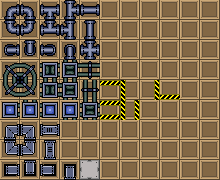
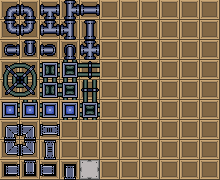
Implement basic ventilations

Changed region(s): [[0.4364, 0.4444, 0.5727, 0.6667], [0.6818, 0.4444, 0.8182, 0.5556], [0.6, 0.5556, 0.6545, 0.6667]]

diff --git a/TriangulatedTopology/Props/Algorithms/VentilationGeneratorAlgorithm.cs b/TriangulatedTopology/Props/Algorithms/VentilationGeneratorAlgorithm.cs
@@ -3,6 +3,7 @@ using GameEngine.Core;
 using GameEngine.Graphics;
 using GameEngine.Helpers;
 using GameEngine.Mathematics;
+using GameEngine.Utils;
 using Graph;
 using OpenTK.Mathematics;
 using System.Drawing;
@@ -13,6 +14,8 @@ namespace TriangulatedTopology.Props.Algorithms
 {
     public class VentilationGeneratorAlgorithm : INetAlgorithm
     {
+        private static Model VentilationJoint = Model.Load("Content/Models/VentilationJoint.fbx");
+
         public static readonly Color VentilationColor = Color.FromArgb(255, 60, 246);
 
         public bool CanProcessRule(Rule rule)
@@ -34,12 +37,41 @@ namespace TriangulatedTopology.Props.Algorithms
         }
 
         public void ProcessNet(Engine engine, Net<LogicalNode> net)
-        {            
-            float side = 0.5f;
+        {
+            float epsilon = 0.01f;
+            float side = 0.55f;
             float extrusionFactor = 0.6f;
 
             var nodes = net.ToList();
-            var points = GetPoints(nodes, side, extrusionFactor);
+            var (points, joints) = GetPoints(nodes, side, extrusionFactor);
+            InstantiateJoints(engine, points, joints);
+
+            foreach(var joint in joints)
+            {
+                var position = joint.Position;
+                var direction = joint.Forward;
+
+                var forwardRotation = Quaternion.Identity;
+                var backwardRotation = Quaternion.Identity;
+
+                forwardRotation = Mathematics.FromToRotation(Vector3.UnitY, direction);
+                forwardRotation *= Mathematics.FromToRotation(Vector3.UnitX, joint.Up);
+
+                if (Mathematics.ApproximatelyEqualEpsilon(MathF.Abs(Vector3.Dot(direction, Vector3.UnitY)), 1.0f, epsilon))
+                {
+                    var axis = Vector3.Transform(Vector3.UnitX, forwardRotation);
+                    backwardRotation = Quaternion.FromAxisAngle(axis, MathHelper.Pi) * forwardRotation;              
+                }
+                else
+                {
+                    backwardRotation = Mathematics.FromToRotation(Vector3.UnitY, -direction);
+                    backwardRotation *= Mathematics.FromToRotation(Vector3.UnitX, joint.Up);                    
+                }
+
+                InstantiateVentilationJoint(engine, position, forwardRotation);
+                InstantiateVentilationJoint(engine, position, backwardRotation);
+            }
+
             var model = MeshGenerator.GenerateTubeFromSpline(points, side);
 
             var go = engine.CreateGameObject();
@@ -47,9 +79,10 @@ namespace TriangulatedTopology.Props.Algorithms
             render.Model = model;
         }
 
-        private static List<SplineVertex> GetPoints(List<LogicalNode> nodes, float radius, float extrusionFactor)
+        private static (List<SplineVertex> Points, List<SplineVertex> Joints) GetPoints(List<LogicalNode> nodes, float radius, float extrusionFactor)
         {
             var points = new List<SplineVertex>();
+            var joints = new List<SplineVertex>();
             var segments = new List<List<SplineVertex>>();
             int resolution = 3;
 
@@ -60,6 +93,7 @@ namespace TriangulatedTopology.Props.Algorithms
 
                 var jointPoints = CreatePointsAroundJoint(prev, next, extrusionFactor, radius, resolution);
                 segments.Add(jointPoints);
+                joints.Add(jointPoints[jointPoints.Count / 2]);
             }
 
             points.AddRange(CreateBegin(nodes[0], nodes[1], extrusionFactor, radius, resolution));
@@ -75,7 +109,7 @@ namespace TriangulatedTopology.Props.Algorithms
 
             points.AddRange(segments[segments.Count - 1]);
             points.AddRange(CreateEnd(nodes[nodes.Count - 2], nodes[nodes.Count - 1], extrusionFactor, radius, resolution));
-            return points;
+            return (points, joints);
         }
 
         private static List<SplineVertex> CreatePointsAroundJoint(
@@ -242,6 +276,63 @@ namespace TriangulatedTopology.Props.Algorithms
             }
 
             return points;
+        }
+
+        private static void InstantiateJoints(Engine engine, List<SplineVertex> points, List<SplineVertex> joints)
+        {
+            float epsilon = 0.01f;
+
+            {
+                var first = points[0];
+                var rotation = Mathematics.FromToRotation(Vector3.UnitY, first.Forward);
+                var axis = Vector3.Transform(Vector3.UnitX, rotation);
+                rotation = Mathematics.FromToRotation(axis, first.Up) * rotation;
+                InstantiateVentilationJoint(engine, first.Position, rotation);
+            }
+
+            {
+                var last = points[points.Count - 1];
+                var rotation = Mathematics.FromToRotation(Vector3.UnitY, -last.Forward);
+                var axis = Vector3.Transform(Vector3.UnitX, rotation);
+                rotation = Mathematics.FromToRotation(axis, last.Up) * rotation;
+                InstantiateVentilationJoint(engine, last.Position, rotation);
+            }
+
+            foreach (var joint in joints)
+            {
+                var position = joint.Position;
+                var direction = joint.Forward;
+
+                var forwardRotation = Quaternion.Identity;
+                var backwardRotation = Quaternion.Identity;
+
+                forwardRotation = Mathematics.FromToRotation(Vector3.UnitY, direction);
+                forwardRotation *= Mathematics.FromToRotation(Vector3.UnitX, joint.Up);
+
+                if (Mathematics.ApproximatelyEqualEpsilon(MathF.Abs(Vector3.Dot(direction, Vector3.UnitY)), 1.0f, epsilon))
+                {
+                    var axis = Vector3.Transform(Vector3.UnitX, forwardRotation);
+                    backwardRotation = Quaternion.FromAxisAngle(axis, MathHelper.Pi) * forwardRotation;
+                }
+                else
+                {
+                    backwardRotation = Mathematics.FromToRotation(Vector3.UnitY, -direction);
+                    backwardRotation *= Mathematics.FromToRotation(Vector3.UnitX, joint.Up);
+                }
+
+                InstantiateVentilationJoint(engine, position, forwardRotation);
+                InstantiateVentilationJoint(engine, position, backwardRotation);
+            }
+        }
+
+        private static GameObject InstantiateVentilationJoint(Engine engine, Vector3 position, Quaternion rotation)
+        {
+            var go = engine.CreateGameObject();
+            var renderer = go.Add<MaterialRenderComponent>();
+            renderer.Model = VentilationJoint;
+            go.Position = position;
+            go.Rotation = rotation;
+            return go;
         }
     }
 }

diff --git a/TriangulatedTopology/Props/Algorithms/PipesGeneratorAlgorithm.cs b/TriangulatedTopology/Props/Algorithms/PipesGeneratorAlgorithm.cs
@@ -300,20 +300,26 @@ namespace TriangulatedTopology.Props.Algorithms
 
         private static void InstantiateJoints(Engine engine, List<SplineVertex> points, List<SplineVertex> joints)
         {
-            //float minimumDistance = 0.2f;
-            //float desiredDistance = 2.0f;
+            {
+                var first = points[0];
+                var rotation = Mathematics.FromToRotation(Vector3.UnitY, first.Forward);
+                InstantiatePipeJoint(engine, first.Position, rotation);
+            }
 
-            //float epsilon = 0.01f;
-
-            InstantiateDualPipeJoints(engine, points[0].Up, points[0].Position, points[0].Forward);
+            {
+                var last = points[points.Count - 1];
+                var rotation = Mathematics.FromToRotation(Vector3.UnitY, -last.Forward);
+                InstantiatePipeJoint(engine, last.Position, rotation);
+            }
 
             foreach (var joint in joints)
             {
                 InstantiateDualPipeJoints(engine, joint.Up, joint.Position, joint.Forward);
             }
 
-            InstantiateDualPipeJoints(engine, points[points.Count - 1].Up, points[points.Count - 1].Position, points[points.Count - 1].Forward);
-            return;
+            //float minimumDistance = 0.2f;
+            //float desiredDistance = 2.0f;
+            //float epsilon = 0.01f;
 
             //var (lines, curves) = ExtractLinesAndCurves(points);
 
@@ -488,18 +494,13 @@ namespace TriangulatedTopology.Props.Algorithms
         private static void InstantiateDualPipeJoints(Engine engine, Vector3 axis, Vector3 position, Vector3 direction)
         {
             float epsilon = 0.01f;
-            var forwardRotation = Quaternion.Identity;
 
             if (Mathematics.ApproximatelyEqualEpsilon(MathF.Abs(Vector3.Dot(axis, Vector3.UnitY)), 1.0f, epsilon))
             {
                 axis = Vector3.Normalize(Vector3.Cross(axis, direction));
-                forwardRotation = Mathematics.FromToRotation(axis, Vector3.UnitY, direction);
-            }
-            else
-            {
-                forwardRotation = Mathematics.FromToRotation(axis, Vector3.UnitY, direction);
             }
 
+            var forwardRotation = Mathematics.FromToRotation(axis, Vector3.UnitY, direction);
             var backwardRotation = Quaternion.FromAxisAngle(axis, MathF.PI) * forwardRotation;
             InstantiatePipeJoint(engine, position, forwardRotation);
             InstantiatePipeJoint(engine, position, backwardRotation);

diff --git a/TriangulatedTopology/Program.cs b/TriangulatedTopology/Program.cs
@@ -427,8 +427,10 @@ namespace TriangulatedTopology
             //CollectionsHelper.UseSeed(1145917631);
             //CollectionsHelper.UseSeed(56224625);
             //CollectionsHelper.UseSeed(935418399);
-            //CollectionsHelper.UseSeed(1310155548);887817102
+            //CollectionsHelper.UseSeed(1310155548);
             //CollectionsHelper.UseSeed(887817102);
+            //CollectionsHelper.UseSeed(1902612879); 
+            //CollectionsHelper.UseSeed(113611668); // Провод на лестнице
 
             using var engine = new Engine();
 
